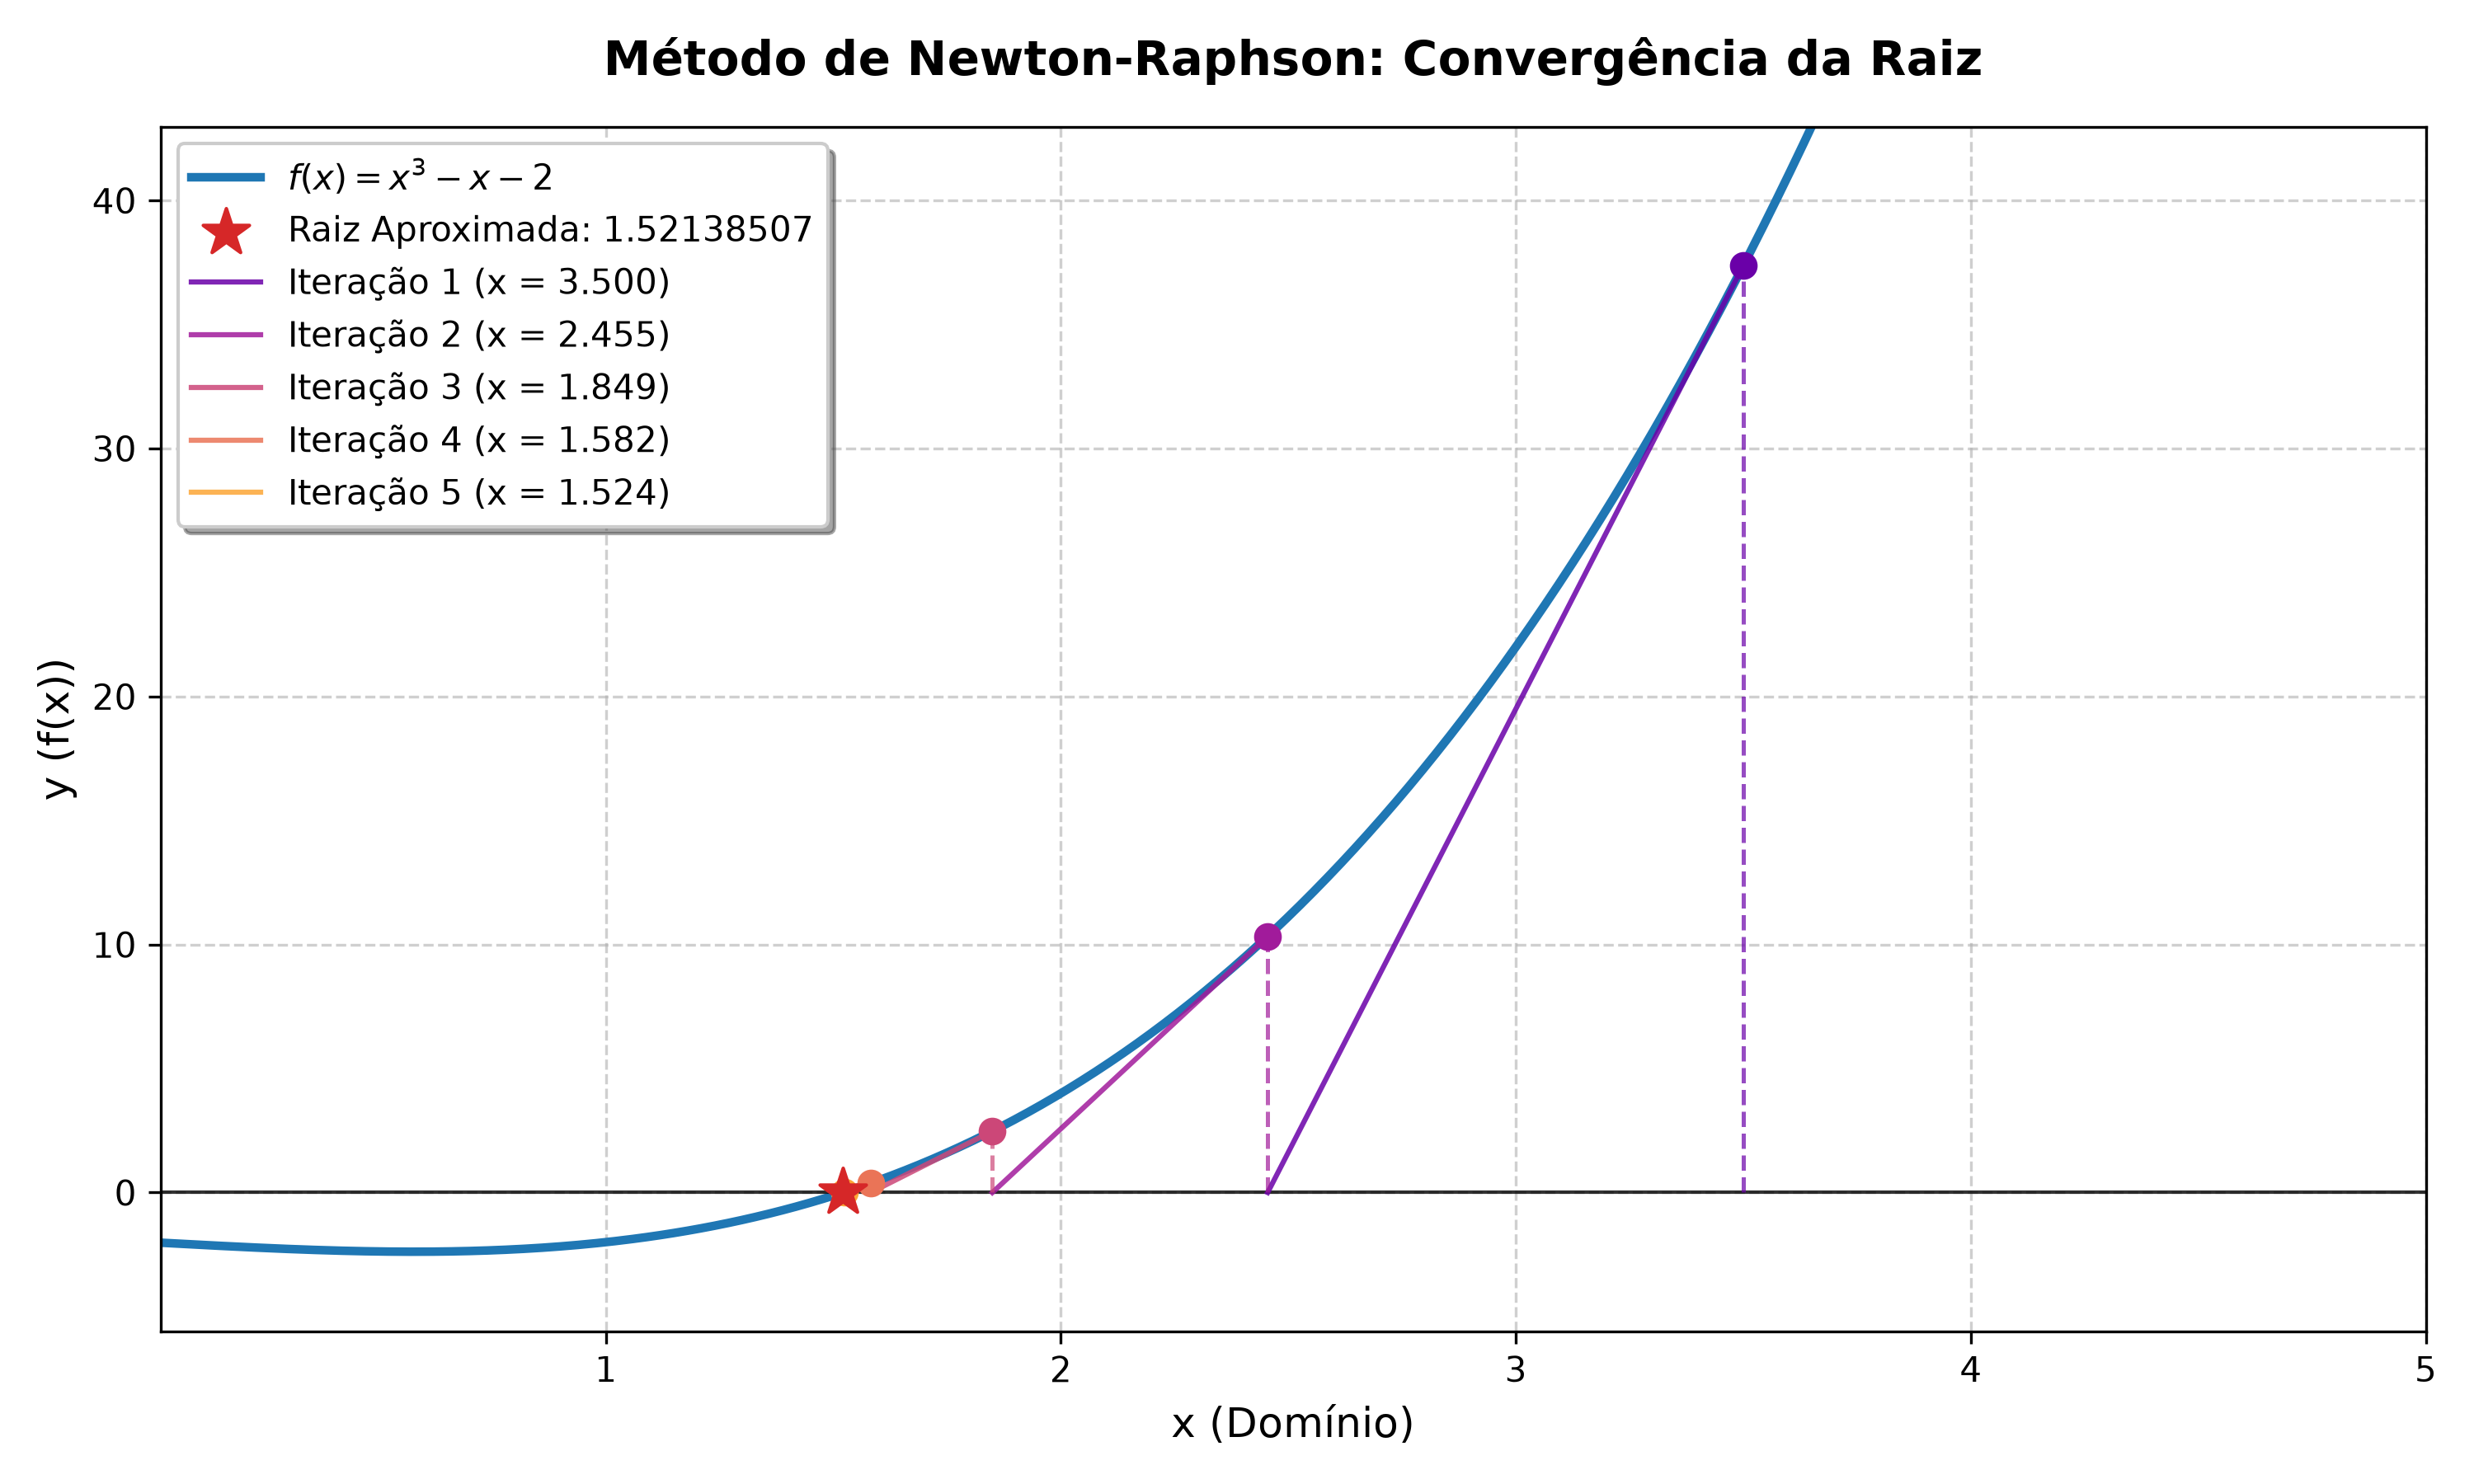
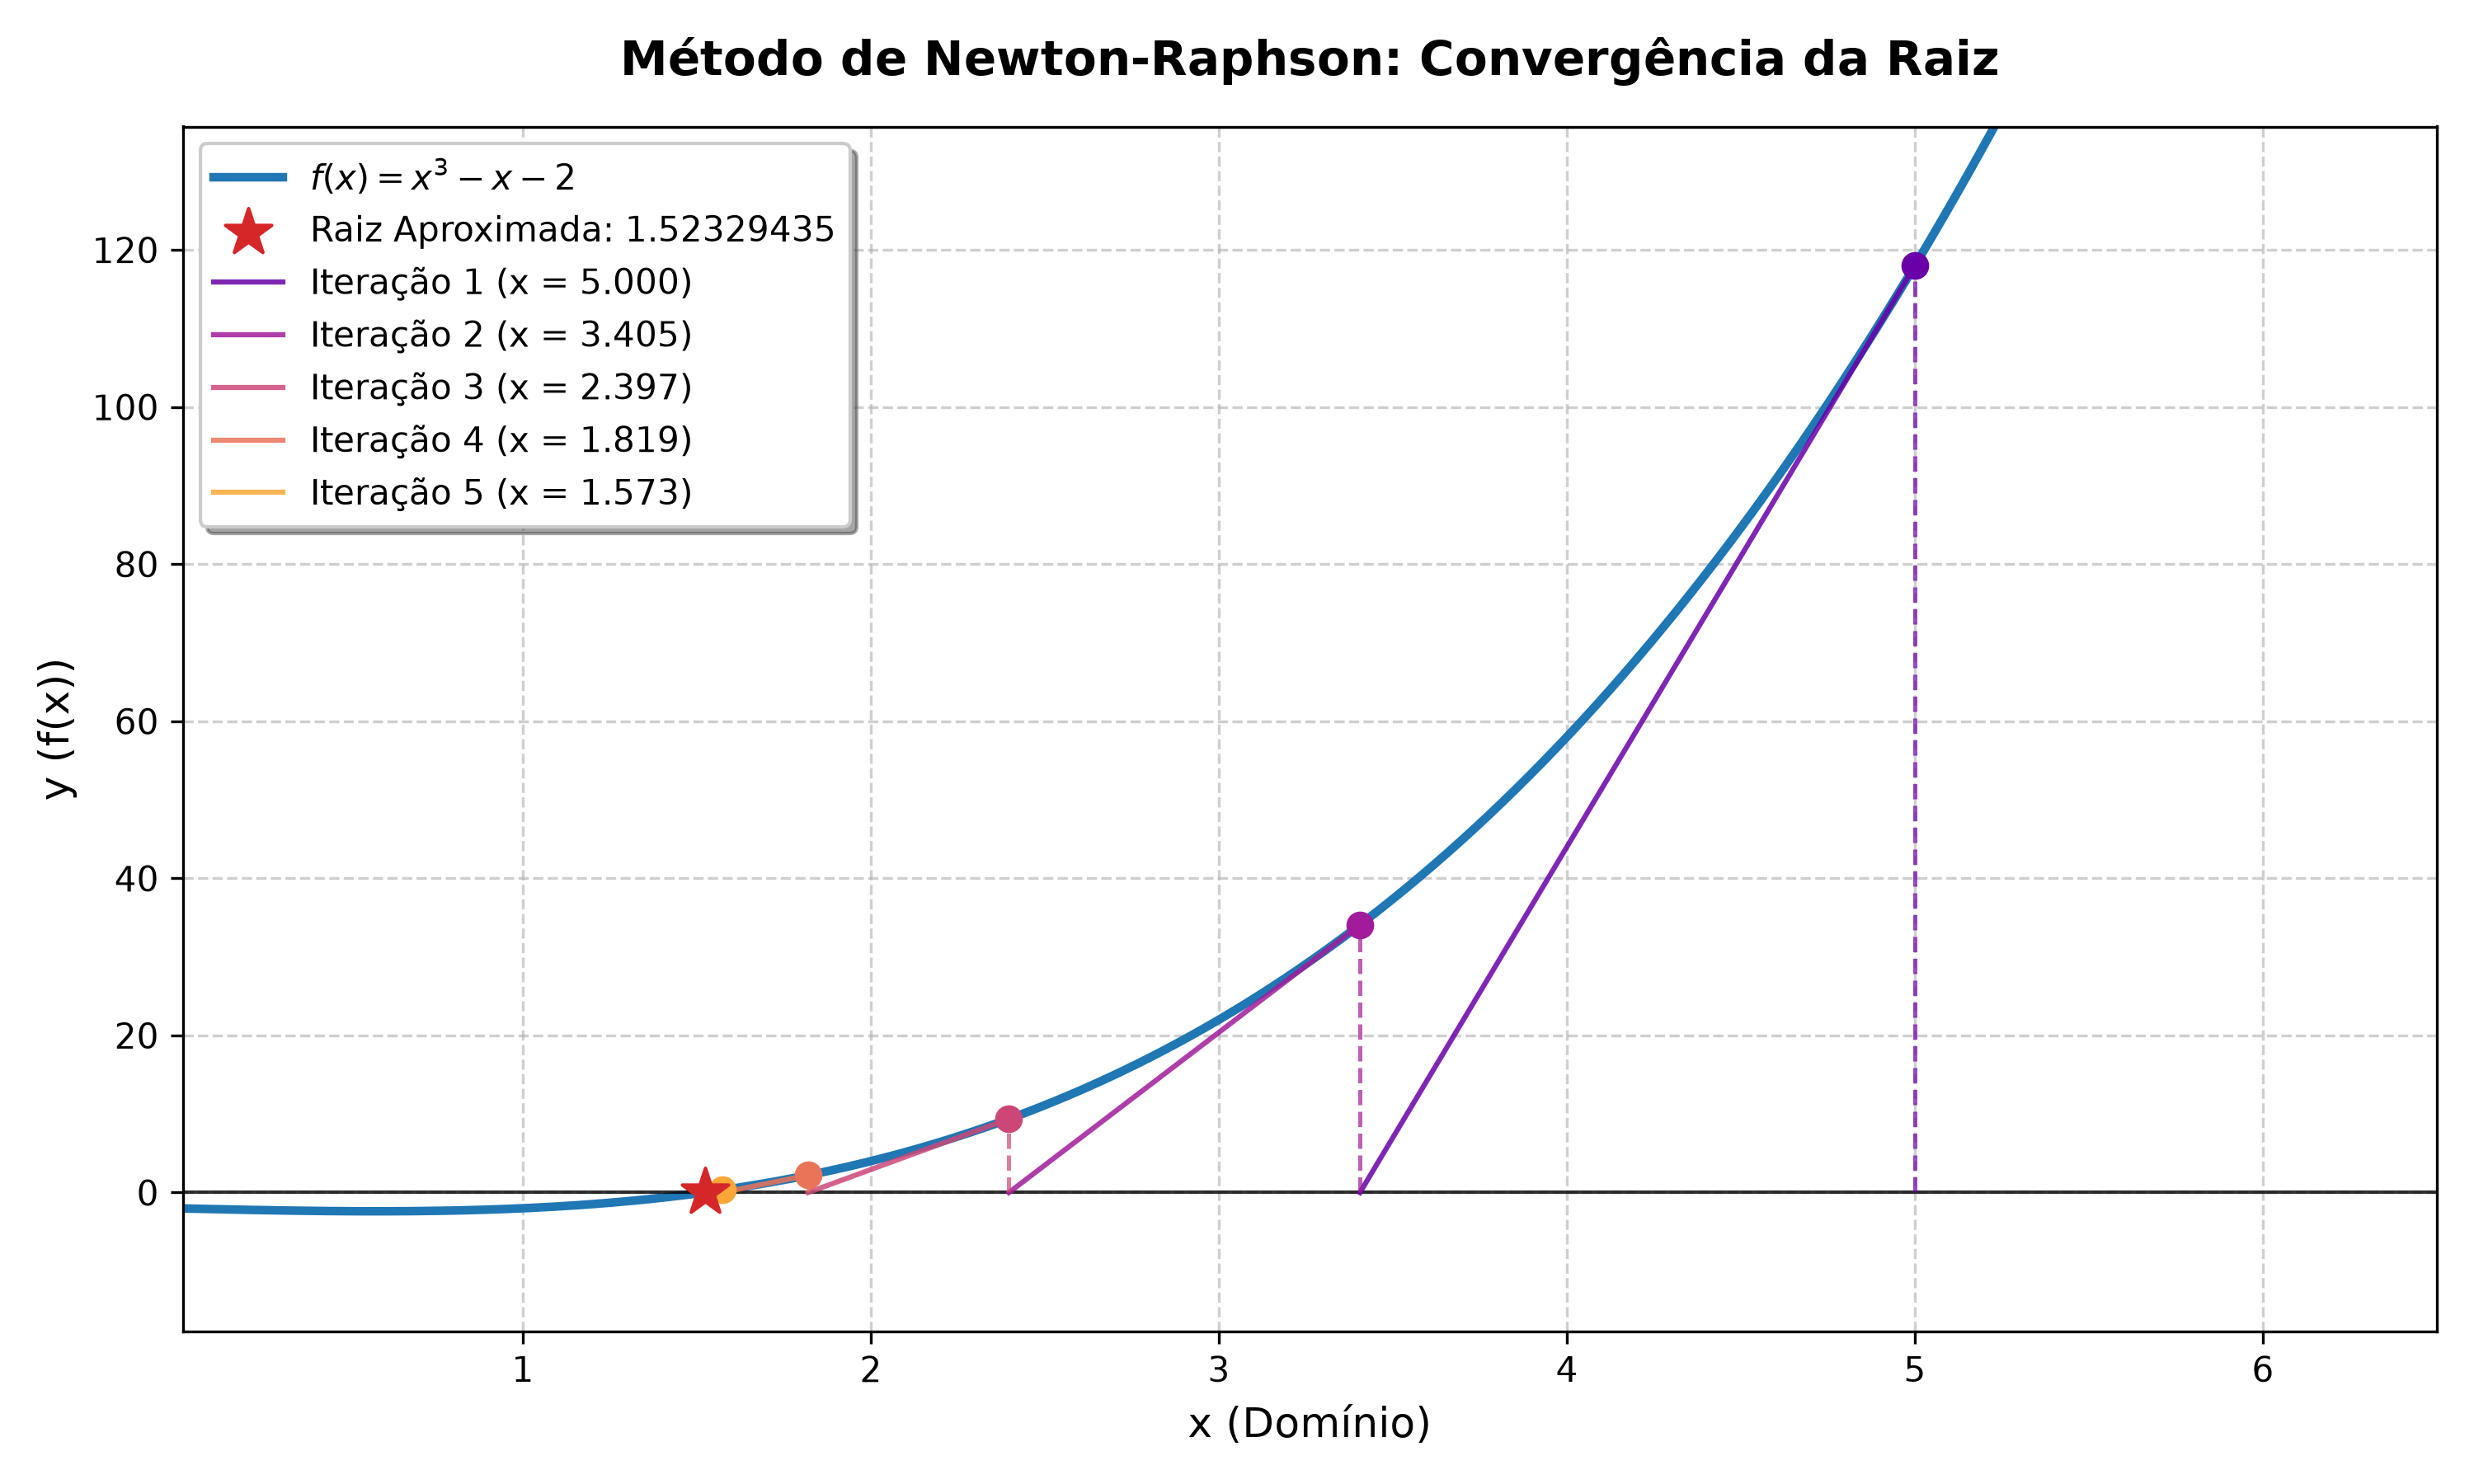
test: Adiciona Testes Unitários 1

diff --git a/test_metodos.py b/test_metodos.py
@@ -1,0 +1,348 @@
+#!/usr/bin/env python3
+# -*- coding: utf-8 -*-
+"""
+Suíte de Testes Unitários para os Métodos de Newton-Raphson e Gauss-Seidel.
+Contém 10 testes unitários para cada método, cobrindo cenários de sucesso,
+limites, erros e convergência difícil.
+"""
+
+import unittest
+import numpy as np
+
+# Importa as funções sob teste
+import metodo_newton
+import metodo_gauss_seidel
+
+# Armazena as funções originais de Newton para restauração após os testes
+ORIGINAL_F = metodo_newton.f
+ORIGINAL_DF = metodo_newton.df
+
+
+class TestMetodoNewton(unittest.TestCase):
+
+    def setUp(self):
+        # Restaura as funções padrão antes de cada teste
+        metodo_newton.f = ORIGINAL_F
+        metodo_newton.df = ORIGINAL_DF
+
+    def tearDown(self):
+        # Restaura as funções padrão depois de cada teste
+        metodo_newton.f = ORIGINAL_F
+        metodo_newton.df = ORIGINAL_DF
+
+    def test_newton_typical_convergence(self):
+        """1. Caso típico de convergência para f(x) = x^3 - x - 2."""
+        iteracoes, sucesso, raiz, msg = metodo_newton.metodo_newton_raphson(
+            x0=1.0, Es=1e-6, N0=100
+        )
+        self.assertTrue(sucesso)
+        self.assertAlmostEqual(raiz, 1.52137971, places=6)
+        self.assertGreater(len(iteracoes), 0)
+
+    def test_newton_zero_derivative(self):
+        """2. Derivada nula no chute inicial (f'(x0) = 0)."""
+        # Para f(x) = x^3 - x - 2, f'(x) = 3x^2 - 1. A derivada é nula em x = sqrt(1/3) ~ 0.57735.
+        x0 = (1.0 / 3.0) ** 0.5
+        iteracoes, sucesso, raiz, msg = metodo_newton.metodo_newton_raphson(
+            x0=x0, Es=1e-6, N0=5
+        )
+        self.assertFalse(sucesso)
+        self.assertIn("derivada nula", msg.lower() or "divisão por zero" in msg.lower())
+
+    def test_newton_infinite_cycle(self):
+        """3. Oscilação infinita/ciclo periódico (não convergente)."""
+        # Definindo uma função personalizada que oscila entre -1 e 1 para x0 = 1.0
+        # f(x) = x^3 - 5x
+        # f'(x) = 3x^2 - 5
+        def custom_f(x):
+            return x**3 - 5*x
+
+        def custom_df(x):
+            return 3*x**2 - 5
+
+        metodo_newton.f = custom_f
+        metodo_newton.df = custom_df
+
+        iteracoes, sucesso, raiz, msg = metodo_newton.metodo_newton_raphson(
+            x0=1.0, Es=1e-6, N0=5
+        )
+        self.assertFalse(sucesso)
+        self.assertIn("limite", msg.lower())
+        # Verifica se oscilou entre 1 e -1
+        self.assertAlmostEqual(iteracoes[0]['xi'], 1.0)
+        self.assertAlmostEqual(iteracoes[0]['xi_mais_1'], -1.0)
+        self.assertAlmostEqual(iteracoes[1]['xi'], -1.0)
+        self.assertAlmostEqual(iteracoes[1]['xi_mais_1'], 1.0)
+
+    def test_newton_zero_convergence_bug_fix(self):
+        """4. Validação da correção do bug onde x_novo = 0.0 causava falsa convergência rápida."""
+        # Se x_novo for exatamente 0.0, mas não for a raiz, o erro relativo deve ser calculado 
+        # corretamente e o algoritmo deve continuar iterando em vez de alegar sucesso imediato.
+        # Chute x0 = -1.0 leva a x_novo = 0.0 na 1ª iteração para f(x) = x^3 - x - 2
+        iteracoes, sucesso, raiz, msg = metodo_newton.metodo_newton_raphson(
+            x0=-1.0, Es=1e-6, N0=50
+        )
+        # Não deve convergir com sucesso no primeiro passo (onde x_novo = 0.0 e f(0) = -2)
+        # O método deve continuar até convergir para a raiz correta (~1.5213)
+        self.assertTrue(sucesso)
+        self.assertAlmostEqual(raiz, 1.52137971, places=6)
+        self.assertGreater(len(iteracoes), 1)
+
+    def test_newton_extreme_tolerance(self):
+        """5. Tolerância extremamente baixa exige precisão máxima."""
+        iteracoes, sucesso, raiz, msg = metodo_newton.metodo_newton_raphson(
+            x0=2.0, Es=1e-12, N0=100
+        )
+        self.assertTrue(sucesso)
+        self.assertAlmostEqual(raiz, 1.5213797068, places=8)
+
+    def test_newton_iteration_limit(self):
+        """6. Limite estrito de iterações atingido sem convergência."""
+        iteracoes, sucesso, raiz, msg = metodo_newton.metodo_newton_raphson(
+            x0=3.0, Es=1e-12, N0=3
+        )
+        self.assertFalse(sucesso)
+        self.assertEqual(len(iteracoes), 3)
+        self.assertIn("limite", msg.lower())
+
+    def test_newton_multiple_root(self):
+        """7. Raiz de multiplicidade superior (convergência linear mais lenta)."""
+        # f(x) = (x-1)^2 = x^2 - 2x + 1
+        # f'(x) = 2x - 2
+        # Raiz em x = 1.0. A convergência é linear e a derivada se aproxima de zero na raiz.
+        def custom_f(x):
+            return (x - 1.0) ** 2
+
+        def custom_df(x):
+            return 2.0 * x - 2.0
+
+        metodo_newton.f = custom_f
+        metodo_newton.df = custom_df
+
+        iteracoes, sucesso, raiz, msg = metodo_newton.metodo_newton_raphson(
+            x0=1.5, Es=1e-3, N0=100
+        )
+        # Deve encontrar a raiz, embora demande mais iterações
+        self.assertTrue(sucesso)
+        self.assertAlmostEqual(raiz, 1.0, places=2)
+
+    def test_newton_divergence(self):
+        """8. Função divergente (erro cresce a cada passo)."""
+        # f(x) = x^(1/3)
+        # f'(x) = 1 / (3 * x^(2/3))
+        # Para qualquer x0 != 0, x_novo = x0 - x0^(1/3) * 3 * x0^(2/3) = -2 * x0 (diverge).
+        def custom_f(x):
+            return np.sign(x) * (abs(x) ** (1.0 / 3.0))
+
+        def custom_df(x):
+            return (1.0 / 3.0) * (abs(x) ** (-2.0 / 3.0))
+
+        metodo_newton.f = custom_f
+        metodo_newton.df = custom_df
+
+        iteracoes, sucesso, raiz, msg = metodo_newton.metodo_newton_raphson(
+            x0=0.5, Es=1e-6, N0=10
+        )
+        self.assertFalse(sucesso)
+        self.assertEqual(len(iteracoes), 10)
+        # O último x deve ser (-2)^10 * 0.5 = 512
+        self.assertAlmostEqual(abs(raiz), 512.0)
+
+    def test_newton_constant_function(self):
+        """9. Função constante (sem raiz, derivada sempre nula)."""
+        def custom_f(x):
+            return 5.0
+
+        def custom_df(x):
+            return 0.0
+
+        metodo_newton.f = custom_f
+        metodo_newton.df = custom_df
+
+        iteracoes, sucesso, raiz, msg = metodo_newton.metodo_newton_raphson(
+            x0=1.0, Es=1e-6, N0=5
+        )
+        self.assertFalse(sucesso)
+        self.assertIn("derivada nula", msg.lower())
+
+    def test_newton_single_iteration(self):
+        """10. Comportamento com apenas 1 iteração de limite."""
+        iteracoes, sucesso, raiz, msg = metodo_newton.metodo_newton_raphson(
+            x0=2.0, Es=1e-6, N0=1
+        )
+        self.assertEqual(len(iteracoes), 1)
+
+
+class TestMetodoGaussSeidel(unittest.TestCase):
+
+    def test_gs_typical_3x3(self):
+        """1. Sistema padrão 3x3 diagonal dominante (convergência garantida)."""
+        A = [
+            [10.0, 2.0, -1.0],
+            [-3.0, -6.0, 2.0],
+            [1.0, 1.0, 5.0]
+        ]
+        b = [27.0, -61.5, -21.5]
+        x0 = [0.0, 0.0, 0.0]
+        
+        iteracoes, sucesso, x_final, msg = metodo_gauss_seidel.metodo_gauss_seidel(
+            A, b, x0, Es=1e-5, N0=100
+        )
+        self.assertTrue(sucesso)
+        # Solução exata: x1 = 3.0, x2 = 12.5 (espera, no main está: -61.5 para segunda linha...)
+        # Vamos verificar a solução correspondente
+        # 10*x1 + 2*x2 - x3 = 27
+        # -3*x1 - 6*x2 + 2*x3 = -61.5
+        # x1 + x2 + 5*x3 = -21.5
+        # Solução esperada: [3.0, 12.5, -7.0] -> na verdade, vamos testar se Ax = b com tolerancia
+        np_A = np.array(A)
+        np_x = np.array(x_final)
+        np_b = np.array(b)
+        self.assertTrue(np.allclose(np_A.dot(np_x), np_b, atol=1e-3))
+
+    def test_gs_sassenfeld_only(self):
+        """2. Matriz que não é diagonal dominante mas atende a Sassenfeld."""
+        # Matriz A = [[2, 1, 0], [3, 4, 2], [0, 1, 2]]
+        # Não é diag dominante porque na linha 2: |4| <= |3| + |2| = 5.
+        # Mas atende a Sassenfeld (beta_max = 0.875 < 1.0).
+        A = [
+            [2.0, 1.0, 0.0],
+            [3.0, 4.0, 2.0],
+            [0.0, 1.0, 2.0]
+        ]
+        b = [5.0, 17.0, 5.0]  # Solução exata: [1, 3, 1]
+        x0 = [0.0, 0.0, 0.0]
+        
+        iteracoes, sucesso, x_final, msg = metodo_gauss_seidel.metodo_gauss_seidel(
+            A, b, x0, Es=1e-4, N0=100
+        )
+        self.assertTrue(sucesso)
+        self.assertAlmostEqual(x_final[0], 1.0, places=3)
+        self.assertAlmostEqual(x_final[1], 3.0, places=3)
+        self.assertAlmostEqual(x_final[2], 1.0, places=3)
+
+    def test_gs_zero_convergence_bug_fix(self):
+        """3. Correção do bug onde xi se tornava 0.0 e gerava falsa convergência rápida."""
+        # Se uma das variáveis do sistema se aproxima de 0.0, o erro relativo não deve ser zero,
+        # a menos que a iteração anterior também tenha sido próxima de 0.0.
+        A = [
+            [5.0, 1.0],
+            [1.0, 5.0]
+        ]
+        b = [0.0, 5.0]  # Solução: x1 = -5/24 ~ -0.2083, x2 = 25/24 ~ 1.0416
+        # Chute inicial em que x1_novo se torna 0.0
+        # Na 1ª iteração: x1 = (0.0 - 1.0 * x2) / 5.0 = -x2 / 5.0.
+        # Se escolhermos x2 = 0.0 e chute inicial x0 = [-100.0, 0.0]
+        # x1_novo = (0.0 - 0.0)/5.0 = 0.0.
+        # Anteriormente, x1_velho = -100.0. A variação foi grande, mas como x1_novo = 0.0,
+        # o bug definia erro relativo como 0.0%.
+        x0 = [-100.0, 0.0]
+        iteracoes, sucesso, x_final, msg = metodo_gauss_seidel.metodo_gauss_seidel(
+            A, b, x0, Es=1e-5, N0=100
+        )
+        self.assertTrue(sucesso)
+        self.assertAlmostEqual(x_final[0], -0.20833333, places=5)
+        self.assertAlmostEqual(x_final[1], 1.04166667, places=5)
+        self.assertGreater(len(iteracoes), 1)
+
+    def test_gs_requires_reordering(self):
+        """4. Elemento nulo na diagonal reordenável com sucesso."""
+        A = [
+            [0.0, 2.0],
+            [3.0, 1.0]
+        ]
+        b = [4.0, 5.0]  # Solução: x1 = 1, x2 = 2.
+        # Deve reordenar internamente para [[3, 1], [0, 2]] e b para [5, 4]
+        iteracoes, sucesso, x_final, msg = metodo_gauss_seidel.metodo_gauss_seidel(
+            A, b, [0.0, 0.0], Es=1e-5, N0=50
+        )
+        self.assertTrue(sucesso)
+        self.assertAlmostEqual(x_final[0], 1.0, places=4)
+        self.assertAlmostEqual(x_final[1], 2.0, places=4)
+
+    def test_gs_impossible_reordering(self):
+        """5. Elemento nulo na diagonal impossível de reordenar."""
+        A = [
+            [0.0, 1.0],
+            [0.0, 2.0]
+        ]
+        b = [3.0, 4.0]
+        iteracoes, sucesso, x_final, msg = metodo_gauss_seidel.metodo_gauss_seidel(
+            A, b, [0.0, 0.0], Es=1e-5, N0=10
+        )
+        self.assertFalse(sucesso)
+        self.assertIn("reordenar", msg.lower())
+
+    def test_gs_divergent_system(self):
+        """6. Sistema divergente que atinge o limite de iterações."""
+        A = [
+            [1.0, 3.0],
+            [3.0, 1.0]
+        ]
+        b = [4.0, 4.0]  # Diagonal fraca, diverge.
+        iteracoes, sucesso, x_final, msg = metodo_gauss_seidel.metodo_gauss_seidel(
+            A, b, [0.0, 0.0], Es=1e-5, N0=10
+        )
+        self.assertFalse(sucesso)
+        self.assertEqual(len(iteracoes), 10)
+        self.assertIn("limite", msg.lower())
+
+    def test_gs_large_system(self):
+        """7. Sistema de grande dimensão (10x10) diagonal dominante."""
+        n = 10
+        # Cria matriz diagonal dominante
+        A = []
+        b = []
+        for i in range(n):
+            linha = [1.0] * n
+            linha[i] = 20.0  # Dominância diagonal forte
+            A.append(linha)
+            b.append(20.0 + (n - 1))  # Solução exata: todos x_i = 1.0
+            
+        x0 = [0.0] * n
+        iteracoes, sucesso, x_final, msg = metodo_gauss_seidel.metodo_gauss_seidel(
+            A, b, x0, Es=1e-5, N0=100
+        )
+        self.assertTrue(sucesso)
+        for i in range(n):
+            self.assertAlmostEqual(x_final[i], 1.0, places=4)
+
+    def test_gs_singular_system(self):
+        """8. Sistema singular inconsistente (sem solução)."""
+        A = [
+            [1.0, 2.0],
+            [2.0, 4.0]
+        ]
+        b = [3.0, 7.0]  # Sistema incompatível/inconsistente
+        iteracoes, sucesso, x_final, msg = metodo_gauss_seidel.metodo_gauss_seidel(
+            A, b, [0.0, 0.0], Es=1e-5, N0=10
+        )
+        self.assertFalse(sucesso)
+
+    def test_gs_incompatible_dimensions(self):
+        """9. Tratamento de erro para dimensões incompatíveis de parâmetros."""
+        A = [
+            [2.0, 1.0],
+            [1.0, 2.0]
+        ]
+        b = [3.0]  # A é 2x2, mas b é tamanho 1
+        x0 = [0.0, 0.0]
+        
+        with self.assertRaises(ValueError):
+            metodo_gauss_seidel.metodo_gauss_seidel(A, b, x0, Es=1e-5, N0=10)
+
+    def test_gs_limit_iterations(self):
+        """10. Comportamento com apenas 1 iteração de limite."""
+        A = [
+            [10.0, 1.0],
+            [1.0, 10.0]
+        ]
+        b = [11.0, 11.0]
+        iteracoes, sucesso, x_final, msg = metodo_gauss_seidel.metodo_gauss_seidel(
+            A, b, [0.0, 0.0], Es=1e-5, N0=1
+        )
+        self.assertEqual(len(iteracoes), 1)
+
+
+if __name__ == "__main__":
+    unittest.main()

diff --git a/metodo_gauss_seidel.py b/metodo_gauss_seidel.py
@@ -85,6 +85,10 @@ def metodo_gauss_seidel(A, b, x0, Es, N0):
         mensagem (str): Descrição textual do encerramento.
     """
     n = len(A)
+    # Validação de dimensões
+    if len(b) != n or len(x0) != n or any(len(row) != n for row in A):
+        raise ValueError("Erro de Dimensões: As dimensões de A, b e x0 devem ser compatíveis e A deve ser uma matriz quadrada.")
+
     x = list(x0)
     iteracoes = []
     sucesso = False
@@ -111,10 +115,8 @@ def metodo_gauss_seidel(A, b, x0, Es, N0):
             x[i] = (b[i] - soma) / A[i][i]
 
             # Erro relativo percentual aproximado para a variável x_i
-            if abs(x[i]) < 1e-15:
-                ea_i = 0.0
-            else:
-                ea_i = abs((x[i] - x_velho[i]) / x[i]) * 100
+            # Evita divisão por zero/falsa convergência usando max(abs(x[i]), 1e-15) no denominador
+            ea_i = abs((x[i] - x_velho[i]) / max(abs(x[i]), 1e-15)) * 100
             erros_etapa.append(ea_i)
 
         erro_max = max(erros_etapa)

diff --git a/metodo_newton.py b/metodo_newton.py
@@ -67,11 +67,8 @@ def metodo_newton_raphson(x0, Es, N0):
         x_novo = x_atual - fx / dfx
 
         # Cálculo do erro relativo percentual aproximado (E_a)
-        if abs(x_novo) < 1e-15:
-            # Evita divisão por zero se a estimativa da raiz for exatamente zero
-            ea = 0.0
-        else:
-            ea = abs((x_novo - x_atual) / x_novo) * 100
+        # Evita divisão por zero/falsa convergência usando max(abs(x_novo), 1e-15) no denominador
+        ea = abs((x_novo - x_atual) / max(abs(x_novo), 1e-15)) * 100
 
         iteracoes.append({
             'Iteracao': i,